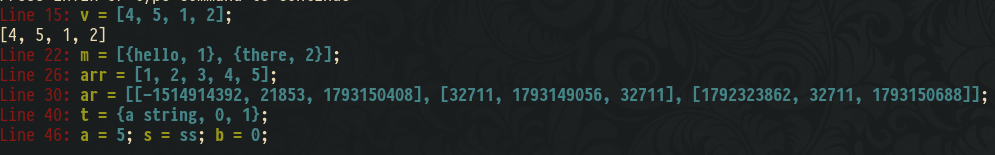
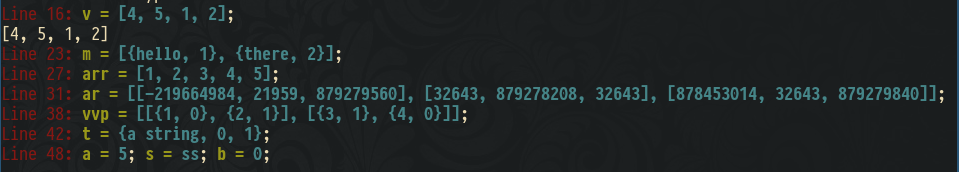
fix

Changed region(s): [[0.0, 0.0, 1.0, 1.0], [0.2722, 0.0, 0.3326, 0.0258]]

diff --git a/README.md b/README.md
@@ -23,9 +23,10 @@ Debug template for competitive programming `mydebug.h`
 ``` cpp
 #include <bits/stdc++.h>
 
-// add these line
-// or copy mydebug.h content here
 #ifdef LOCAL
+// or copy mydebug.h content here
+// copy header file mydebug.h to your include location
+// linux: /usr/include
 #include <mydebug.h>
 #else
 #define debug(...)
@@ -37,7 +38,7 @@ int main() {
   vector<int> v = {4, 5, 1, 2};
   debug(v); // use cerr
 
-  // use normal cout
+  // normal cout
   cout << v << endl;
 
   // work for vector, map, set, array, deque... (has begin(), and end())
@@ -48,15 +49,16 @@ int main() {
   int arr[5] = {1,2,3,4,5};
   debug(arr);
 
-  // multi dimension array
+  // multi dimensional array
   int ar[3][3];
   debug(ar);
 
-  // multi demension vector
+  // multi demensional vector
   vector<vector<pair<int,bool>>> vvp = {
     {{1, false}, {2, true}},
     {{3, true}, {4, false}}
   };
+  debug(vvp);
 
   // tuple
   tuple<string,int,float> t{"a string", 0, 1.f};
